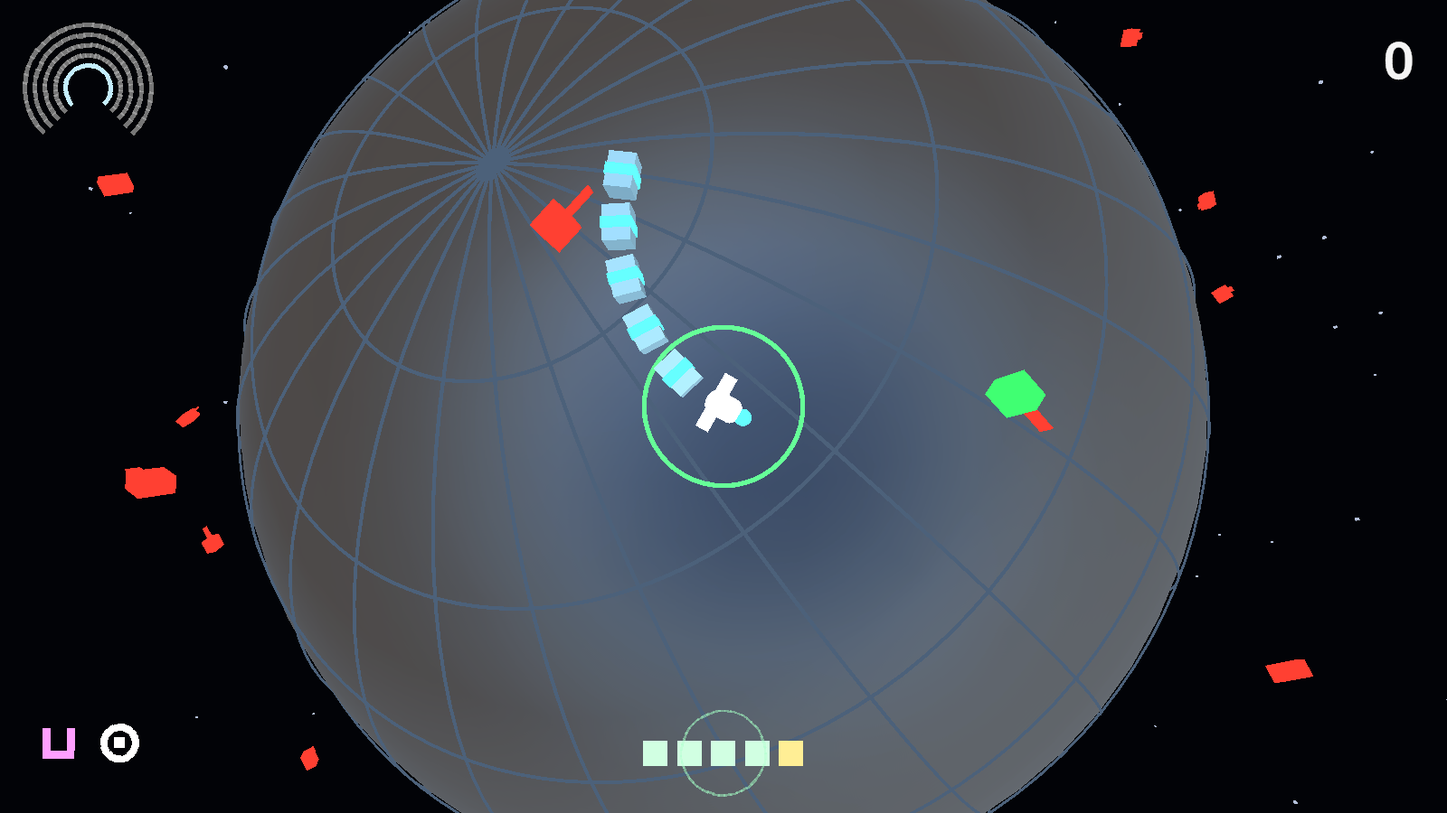
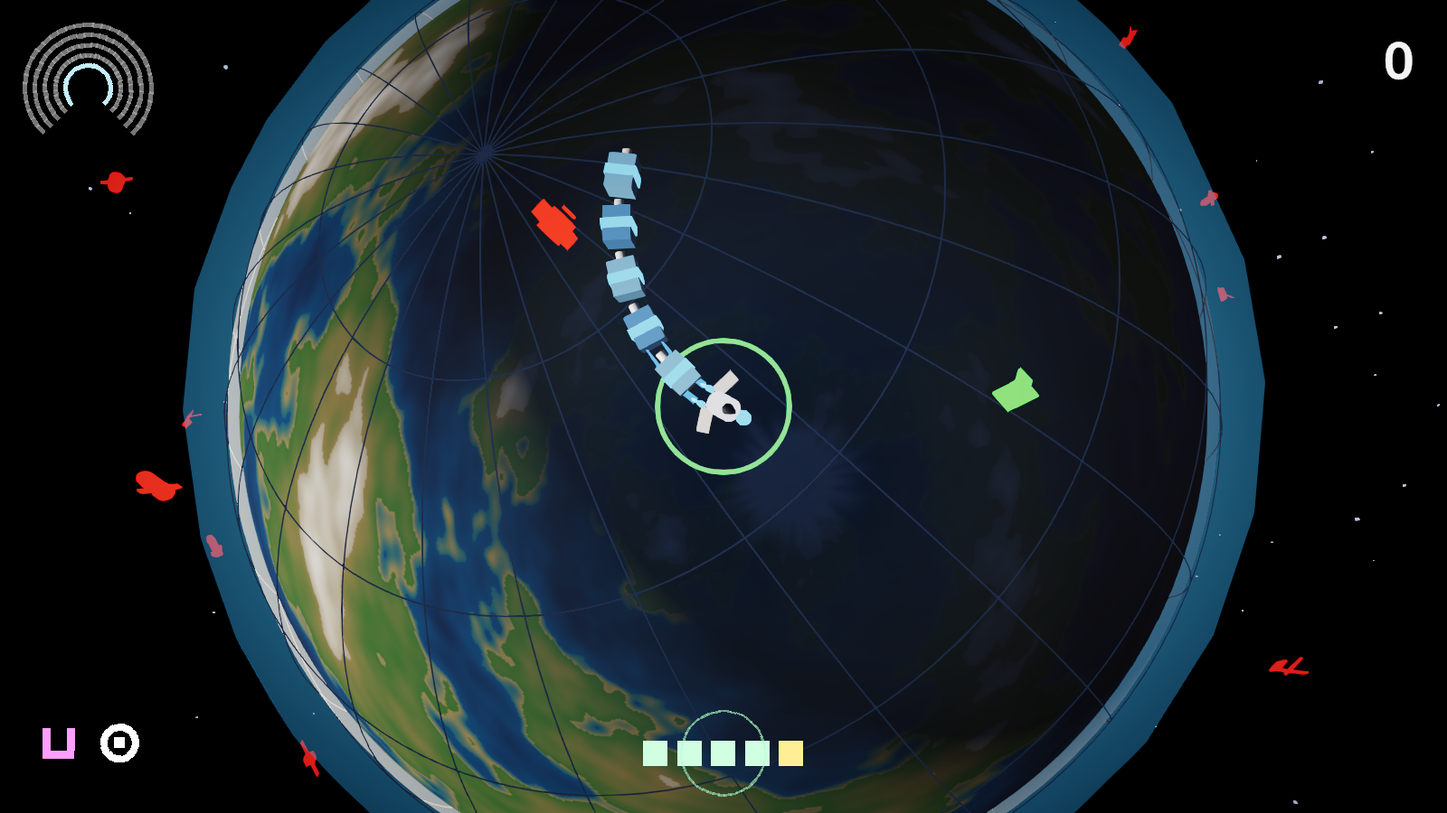
feat: Orbit Snake complete — synthesised music and effects, hit-stop, gamepad, best score, art polish; 24 checks, docs

diff --git a/My project/Assets/Scripts/Orbit/OrbitAudio.cs b/My project/Assets/Scripts/Orbit/OrbitAudio.cs
@@ -1,22 +1,94 @@
 using UnityEngine;
 
-// All audio is synthesised at start-up. Pings are one-shots; chimes step up with the shell.
+// All audio is synthesised at start-up: no clips on disk. Music is five generated loops, one per shell, in a shared
+// key that steps up a whole tone with every climb and gains a layer (pad, then arpeggio, then pulse and hats, then a
+// high arpeggio); a detuned drone fades in with the Kessler clock. Two sources cross-fade between shells. Sound effects
+// are short additive tones; consecutive catches step the catch note up the scale.
 public partial class OrbitSnake
 {
-    AudioSource audioSrc; AudioClip[] pings=new AudioClip[4]; AudioClip[] chimes=new AudioClip[5];
+    const int Rate=22050; const float Bpm=100f;
+    AudioSource sfxSrc, catchSrc, musicA, musicB, tensionSrc; bool musicOnA=true; float musicFade=1, catchStep, catchChainTimer; int catchChain;
+    AudioClip[] loops=new AudioClip[5]; AudioClip tension; AudioClip[] fx=new AudioClip[9]; int musicLevel=-1;
+    // A minor pentatonic in semitones from the root, and the progression i-VI-III-VII as chord roots (A F C G).
+    static readonly int[] Scale={0,3,5,7,10,12,15,17,19,22}; static readonly int[] ChordRoots={0,8,3,10};
+    static float Hz(int semi) => 220f*Mathf.Pow(2,semi/12f);
 
-    AudioClip Sound(string name,float length,float start,float end,float noise)
+    // ---- synthesis helpers ---------------------------------------------------------------------------------------
+    // Additive voice: sine plus a second and third harmonic, attack/decay envelope, written into the buffer at a sample offset.
+    static void Voice(float[] buf,int at,int len,float hz,float amp,float attack,float release,float h2=.25f,float h3=.08f,float detune=0)
     {
-        int count=(int)(22050*length); var samples=new float[count]; var random=new System.Random(44); float phase=0;
-        for(int i=0;i<count;i++){ float t=(float)i/count; phase+=Mathf.Lerp(start,end,t)*Mathf.PI*2/22050; samples[i]=(Mathf.Sin(phase)*(1-noise)+((float)random.NextDouble()*2-1)*noise)*Mathf.Pow(1-t,2)*.5f; }
-        var clip=AudioClip.Create(name,count,1,22050,false); clip.SetData(samples,0); owned.Add(clip); return clip;
+        int a=(int)(attack*Rate), r=(int)(release*Rate); float w=hz*Mathf.PI*2/Rate, w2=(hz+detune)*Mathf.PI*2/Rate;
+        for(int i=0;i<len&&at+i<buf.Length;i++)
+        {
+            float env=Mathf.Min(1,a>0?i/(float)a:1)*Mathf.Min(1,r>0?(len-i)/(float)r:1);
+            float s=Mathf.Sin(w*i)+h2*Mathf.Sin(2*w*i)+h3*Mathf.Sin(3*w*i); if(detune!=0)s=s*.5f+.5f*Mathf.Sin(w2*i);
+            buf[at+i]+=s*env*amp;
+        }
     }
+    static void Pluck(float[] buf,int at,float hz,float amp,float seconds){ int len=(int)(seconds*Rate); float w=hz*Mathf.PI*2/Rate; for(int i=0;i<len&&at+i<buf.Length;i++){ float t=i/(float)len; buf[at+i]+=(Mathf.Sin(w*i)*.8f+Mathf.Sin(2*w*i)*.2f*(1-t))*Mathf.Pow(1-t,3)*amp; } }
+    static void Tick(float[] buf,int at,float amp,float seconds,System.Random rnd){ int len=(int)(seconds*Rate); for(int i=0;i<len&&at+i<buf.Length;i++){ float t=i/(float)len; buf[at+i]+=((float)rnd.NextDouble()*2-1)*Mathf.Pow(1-t,4)*amp; } }
+    AudioClip Clip(string name,float[] buf){ float peak=0; foreach(var v in buf)peak=Mathf.Max(peak,Mathf.Abs(v)); if(peak>.98f)for(int i=0;i<buf.Length;i++)buf[i]*=.98f/peak; var c=AudioClip.Create(name,buf.Length,1,Rate,false); c.SetData(buf,0); owned.Add(c); return c; }
+
+    // One 8-bar loop for a shell. Every layer is quantised to the bar grid so the loop seam is silent.
+    AudioClip MusicLoop(int lvl)
+    {
+        float bpm=Bpm+lvl*6; int beat=(int)(60f/bpm*Rate), bar=beat*4, bars=8; var buf=new float[bar*bars]; int key=lvl*2; var rnd=new System.Random(11+lvl);
+        for(int b=0;b<bars;b++)
+        {
+            int root=key+ChordRoots[b%4]; int at=b*bar;
+            // Pad: root, third-ish (pentatonic), fifth, an octave up, slow attack, detuned for width.
+            foreach(int semi in new[]{0,3,7,12})Voice(buf,at,bar,Hz(root+semi),.07f,.6f,.5f,.2f,.05f,.9f);
+            // Bass: sub root on beat 1, and on beat 3 from shell 2.
+            Voice(buf,at,beat*2,Hz(root-12),.16f,.01f,.3f,.1f,0); if(lvl>=2)Voice(buf,at+beat*2,beat*2,Hz(root-12),.12f,.01f,.3f,.1f,0);
+            // Arpeggio: eighth notes walking the chord tones, from shell 1; sixteenths an octave higher from shell 3.
+            if(lvl>=1)for(int e=0;e<8;e++){ int semi=new[]{0,7,12,7,3,7,12,15}[e]; Pluck(buf,at+e*beat/2,Hz(root+semi+(lvl>=3?0:0)),.1f,.3f); }
+            if(lvl>=3)for(int e=0;e<16;e++){ int semi=Scale[(e*3+b)%Scale.Length]; Pluck(buf,at+e*beat/4,Hz(root+semi+12),.05f,.15f); }
+            // Pulse and hats from shell 2: a soft tick on every beat, noise on the off-beats.
+            if(lvl>=2)for(int q=0;q<4;q++){ Voice(buf,at+q*beat,beat/6,Hz(root-24),.12f,.002f,.05f,0,0); Tick(buf,at+q*beat+beat/2,.05f,.05f,rnd); }
+        }
+        return Clip("loop"+lvl,buf);
+    }
+    AudioClip TensionLoop(){ int len=Rate*6; var buf=new float[len]; Voice(buf,0,len,Hz(7),.12f,.5f,.5f,.3f,.15f,3.1f); Voice(buf,0,len,Hz(7-12),.08f,.5f,.5f,.2f,0,-1.7f); return Clip("tension",buf); }
+
+    AudioClip Fx(string name,float length,System.Action<float[]> fill){ var buf=new float[(int)(length*Rate)]; fill(buf); return Clip(name,buf); }
     void BuildAudio()
     {
-        audioSrc=gameObject.AddComponent<AudioSource>(); audioSrc.spatialBlend=0;
-        pings[0]=Sound("strike",.35f,160,50,.6f); pings[1]=Sound("catch",.18f,520,880,.05f); pings[2]=Sound("shot",.12f,900,400,.3f); pings[3]=Sound("win",1.2f,440,880,0);
-        for(int i=0;i<chimes.Length;i++)chimes[i]=Sound("chime"+i,.6f,330*(1+i*.25f),660*(1+i*.25f),0);
+        AudioSource Src(float vol,bool loop){ var s=gameObject.AddComponent<AudioSource>(); s.spatialBlend=0; s.volume=vol; s.loop=loop; s.playOnAwake=false; return s; }
+        sfxSrc=Src(.8f,false); catchSrc=Src(.7f,false); musicA=Src(0,true); musicB=Src(0,true); tensionSrc=Src(0,true);
+        var rnd=new System.Random(5);
+        fx[0]=Fx("strike",.4f,b=>{ Voice(b,0,b.Length,90,.5f,.002f,.35f,.3f,.1f); Tick(b,0,.5f,.25f,rnd); });                          // thud
+        fx[1]=Fx("catch",.22f,b=>{ Pluck(b,0,Hz(12),.6f,.22f); Pluck(b,(int)(.05f*Rate),Hz(19),.4f,.17f); });                        // pluck, stepped by pitch
+        fx[2]=Fx("shot",.15f,b=>{ Voice(b,0,b.Length,900,.4f,.002f,.12f,.2f,.1f); Tick(b,0,.3f,.06f,rnd); });                        // armour / whip
+        fx[3]=Fx("win",2.4f,b=>{ int[] seq={0,7,12,19,24,19,24,31}; for(int i=0;i<seq.Length;i++)Voice(b,(int)(i*.2f*Rate),(int)(.9f*Rate),Hz(seq[i]),.3f,.01f,.6f); });
+        fx[4]=Fx("sever",.5f,b=>{ Tick(b,0,.6f,.12f,rnd); Voice(b,0,b.Length,140,.35f,.002f,.45f,.4f,.2f); Voice(b,(int)(.08f*Rate),(int)(.3f*Rate),100,.3f,.002f,.3f); });
+        fx[5]=Fx("eject",1.6f,b=>{ for(int i=0;i<b.Length;i++){ float t=i/(float)b.Length; b[i]+=((float)rnd.NextDouble()*2-1)*Mathf.Sin(t*Mathf.PI)*.35f*(1-t*.5f); } Voice(b,0,b.Length,Hz(-12),.3f,.05f,1.2f,.3f,.1f); Voice(b,(int)(.3f*Rate),(int)(1.2f*Rate),Hz(0),.2f,.1f,.9f); });
+        fx[6]=Fx("skill",.9f,b=>{ int[] seq={0,4,7,12}; for(int i=0;i<4;i++)Voice(b,(int)(i*.09f*Rate),(int)(.6f*Rate),Hz(seq[i]+12),.28f,.01f,.4f); });
+        fx[7]=Fx("start",1.4f,b=>{ Voice(b,0,b.Length,Hz(0),.3f,.6f,.6f,.3f,.1f,1.5f); Voice(b,(int)(.4f*Rate),(int)(1f*Rate),Hz(7),.25f,.3f,.5f); Voice(b,(int)(.7f*Rate),(int)(.7f*Rate),Hz(12),.22f,.2f,.4f); });
+        fx[8]=Fx("death",1.8f,b=>{ for(int i=0;i<b.Length;i++){ float t=i/(float)b.Length; float hz=Mathf.Lerp(220,40,t*t); b[i]+=Mathf.Sin(i*hz*Mathf.PI*2/Rate)*(1-t)*.4f+((float)rnd.NextDouble()*2-1)*Mathf.Pow(1-t,3)*.3f; } });
+        for(int i=0;i<loops.Length;i++)loops[i]=MusicLoop(Mathf.Min(i,3)); tension=TensionLoop();
+        tensionSrc.clip=tension; tensionSrc.Play();
     }
-    public void Ping(int kind){ if(audioSrc&&Application.isPlaying)audioSrc.PlayOneShot(pings[Mathf.Clamp(kind,0,3)],.7f); }
-    public void Chime(int lvl){ if(audioSrc&&Application.isPlaying)audioSrc.PlayOneShot(chimes[Mathf.Clamp(lvl,0,chimes.Length-1)],.8f); }
+    // Ping kinds: 0 strike, 1 catch, 2 shot/armour, 3 win, 4 sever, 5 eject, 6 skill, 7 start, 8 death.
+    public void Ping(int kind)
+    {
+        if(!sfxSrc||!Application.isPlaying)return; kind=Mathf.Clamp(kind,0,fx.Length-1);
+        if(kind==1){ catchChain=catchChainTimer>0?Mathf.Min(catchChain+1,7):0; catchChainTimer=1.5f; catchSrc.pitch=Mathf.Pow(2,Scale[catchChain]/12f); catchSrc.PlayOneShot(fx[1],.7f); return; }
+        sfxSrc.PlayOneShot(fx[kind],kind==3||kind==7?.9f:.75f);
+    }
+    // The climb already plays the eject cue; Chime stays as a no-op so older call sites compile.
+    public void Chime(int lvl){ }
+    // Read-only views for the checks.
+    public AudioClip LoopClip(int i) => loops[Mathf.Clamp(i,0,loops.Length-1)]; public AudioClip TensionClip => tension; public int FxCount => fx.Length; public float CatchPitch => catchSrc?catchSrc.pitch:1;
+
+    // Per frame on the unscaled clock: pick the loop for the shell, cross-fade, follow pause and the Kessler drone.
+    void TickAudio(float dt)
+    {
+        if(!musicA||!Application.isPlaying)return;
+        int want=Mathf.Min(level,loops.Length-1);
+        if(want!=musicLevel){ musicLevel=want; var next=musicOnA?musicB:musicA; next.clip=loops[want]; next.volume=0; next.Play(); musicOnA=!musicOnA; musicFade=0; }
+        musicFade=Mathf.Min(1,musicFade+dt/1.5f); float master=(started?1:.35f)*(paused?.4f:1)*(ended&&!won?Mathf.Max(0,1-endTimer*.5f):1)*.5f;
+        var cur=musicOnA?musicA:musicB; var old=musicOnA?musicB:musicA; cur.volume=master*musicFade; old.volume=master*(1-musicFade); if(musicFade>=1&&old.isPlaying)old.Stop();
+        tensionSrc.volume=(started&&!ended?KesslerLoad:0)*.45f;
+        if(catchChainTimer>0)catchChainTimer-=dt;
+    }
 }

diff --git a/My project/Assets/Scripts/Orbit/OrbitSnake.cs b/My project/Assets/Scripts/Orbit/OrbitSnake.cs
@@ -49,6 +49,9 @@ public partial class OrbitSnake : MonoBehaviour
     public Transform world; public Camera cam;
     public string toast=""; public float toastTimer; public readonly List<string> feed=new();
     public float ejectPulse, strikePulse, catchPulse, armourPulse, pickPulse, endTimer; public int lastEjected;
+    // Best score across runs, and the hit-stop clock: Slow() dips Time.timeScale for a few real milliseconds on a contact.
+    public int best; public bool newBest; float slowUntil=-1, slowScale=1;
+    public void Slow(float scale,float seconds){ slowScale=scale; slowUntil=Time.unscaledTime+seconds; }
     System.Random rng;
     // Built player: -orbit-screenshot=<png> captures the full frame with the IMGUI HUD 3 s in (Camera.Render in the
     // Editor cannot see OnGUI), on a scripted weave with a starter train, then quits.
@@ -73,6 +76,7 @@ public partial class OrbitSnake : MonoBehaviour
         if(I&&I!=this){Destroy(gameObject);return;}
         I=this; Application.runInBackground=true;
         foreach(var arg in System.Environment.GetCommandLineArgs())if(arg.StartsWith("-orbit-screenshot="))screenshotPath=arg.Substring(18);
+        best=PlayerPrefs.GetInt("orbit.best",0);
         foreach(var c in FindObjectsByType<Camera>())c.enabled=false;
         foreach(var l in FindObjectsByType<Light>())l.enabled=false;
         foreach(var a in FindObjectsByType<AudioListener>())a.enabled=false;
@@ -84,7 +88,7 @@ public partial class OrbitSnake : MonoBehaviour
     // `wait` holds the world until the first key: the start screen is the frozen shell with the enter glyph over it.
     public void Restart(int seed,bool wait=false)
     {
-        rng=new System.Random(seed); started=!wait; shellTime=0; lastKessler=0; kesslerSpawned=0; kesslerPulse=0;
+        rng=new System.Random(seed); started=!wait; shellTime=0; lastKessler=0; kesslerSpawned=0; kesslerPulse=0; newBest=false; slowUntil=-1; Time.timeScale=1; catchChain=0; catchChainTimer=0;
         // Immediate, not deferred: the checks and the screenshot runner restart several times inside one frame.
         foreach(var j in junk)DestroyImmediate(j.gameObject); junk.Clear();
         foreach(var f in falling)DestroyImmediate(f.gameObject); falling.Clear();
@@ -163,7 +167,7 @@ public partial class OrbitSnake : MonoBehaviour
     }
     public void Take(SkillPod pod)
     {
-        skills[(int)pod.skill]=true; if(pod.skill==Skill.Armour)armour=1; pickPulse=.8f; score+=25; Chime(4);
+        skills[(int)pod.skill]=true; if(pod.skill==Skill.Armour)armour=1; pickPulse=.8f; score+=25; Ping(6); Slow(.2f,.2f);
         foreach(var p in skillPods)Kill(p.gameObject); skillPods.Clear(); Toast("SKILL "+pod.skill);
     }
 
@@ -210,7 +214,7 @@ public partial class OrbitSnake : MonoBehaviour
     void Catch(OrbitJunk j)
     {
         caught++; score+=10+5*level; catchPulse=.4f;
-        if(ship.segments.Count<MaxSegments)ship.AddSegment(); Kill(j.gameObject); Ping(1); ship.tailFlash=.3f; Burst(j.Position,new Color(.5f,1.4f,.7f),18);
+        if(ship.segments.Count<MaxSegments)ship.AddSegment(); Kill(j.gameObject); Ping(1); ship.tailFlash=.3f; Burst(j.Position,new Color(.5f,1.4f,.7f),18); Slow(.3f,.05f);
     }
 
     // A strike costs the two hindmost segments; armour eats one strike outright; with nothing left to shed the hull goes.
@@ -218,14 +222,15 @@ public partial class OrbitSnake : MonoBehaviour
     {
         Kill(j.gameObject); strikes++;
         if(armour>0){ armour=0; armourPulse=.7f; ship.grace=StrikeGrace; Ping(2); return; }
-        strikePulse=.6f; ship.shake=1; StrikeRing(); Burst(j.Position,new Color(1.5f,.35f,.2f),28);
+        strikePulse=.6f; ship.shake=1; StrikeRing(); Burst(j.Position,new Color(1.5f,.35f,.2f),28); Slow(.1f,.12f);
         if(ship.segments.Count==0){ End(false,"Struck by "+(j.wreck?"your own wreckage":"debris")+" with nothing left to shed"); return; }
         ship.Shed(2); ship.grace=StrikeGrace; Toast("STRIKE — two segments lost"); Ping(0);
     }
 
     public void End(bool win,string why)
     {
-        if(ended)return; ended=true; won=win; endReason=why; ship.dead=!win; endTimer=0; Toast(why); Ping(win?3:0);
+        if(ended)return; ended=true; won=win; endReason=why; ship.dead=!win; endTimer=0; Toast(why); Ping(win?3:8);
+        if(score>best){ best=score; newBest=true; PlayerPrefs.SetInt("orbit.best",best); PlayerPrefs.Save(); }
         if(!win){ if(Persist)SaveWreckage(); BreakUp(); }
         else if(Persist){ PlayerPrefs.DeleteKey(WreckKey); PlayerPrefs.Save(); }
     }
@@ -237,7 +242,7 @@ public partial class OrbitSnake : MonoBehaviour
         if(!EjectReady)return false;
         int n=ship.segments.Count; lastEjected=n;
         for(int i=0;i<n;i++){ var f=new GameObject("Falling segment").AddComponent<OrbitFalling>(); f.transform.SetParent(world); f.Init(ship.segments[i].position,i*.06f); BuildFallingArt(f); falling.Add(f); }
-        ship.Shed(n); score+=EjectValue(n); ejectPulse=1.2f;
+        ship.Shed(n); score+=EjectValue(n); ejectPulse=1.2f; Slow(.3f,.45f); Ping(5);
         level++; shellTime=0; lastKessler=0; kesslerSpawned=0; ship.Lift(ShellRadius(level)); if(junk.FindAll(x=>x.shell==level&&!x.shot&&!x.wreck).Count==0)SeedShell(level);
         Toast("EJECTED "+n+" — burning up below. Climbing to "+ShellNames[level]); Chime(level);
         if(level>=ShellAltitude.Length-1)End(true,"ESCAPE — you cleared the field. Score "+score); else OfferSkills();
@@ -247,32 +252,36 @@ public partial class OrbitSnake : MonoBehaviour
     float lastTapA=-1,lastTapD=-1;
     void Update()
     {
+        Time.timeScale=Time.unscaledTime<slowUntil&&!paused?slowScale:1; TickAudio(Time.unscaledDeltaTime);
         if(screenshotPath!=null)
         {
-            started=true;
+            started=true; slowUntil=-1;
             if(ship.segments.Count==0&&elapsed<.1f){ for(int i=0;i<5;i++)ship.AddSegment(); skills[(int)Skill.Magnet]=true; skills[(int)Skill.Armour]=true; armour=1; OfferSkills(); }
             ship.turn=Mathf.Sin(elapsed*1.5f);
             if(!shotTaken&&elapsed>3){ ScreenCapture.CaptureScreenshot(screenshotPath); shotTaken=true; Debug.Log("[SHOT] HUD capture -> "+screenshotPath); }
             if(shotTaken&&elapsed>4.5f)Application.Quit();
             return;
         }
-        var k=Keyboard.current; if(k==null)return;
-        if(!started){ if(k.anyKey.wasPressedThisFrame&&!k.escapeKey.wasPressedThisFrame)started=true; return; }
-        if(k.escapeKey.wasPressedThisFrame&&!ended)paused=!paused;
-        if(ended&&k.enterKey.wasPressedThisFrame)Restart((int)(Time.realtimeSinceStartup*1000)&0xffff,true);
+        var k=Keyboard.current; var gp=Gamepad.current; if(k==null&&gp==null)return;
+        bool Key(System.Func<Keyboard,bool> f) => k!=null&&f(k); bool Pad(System.Func<Gamepad,bool> f) => gp!=null&&f(gp);
+        if(!started){ if((Key(x=>x.anyKey.wasPressedThisFrame&&!x.escapeKey.wasPressedThisFrame))||Pad(x=>x.buttonSouth.wasPressedThisFrame||x.startButton.wasPressedThisFrame)){ started=true; Ping(7); } return; }
+        if((Key(x=>x.escapeKey.wasPressedThisFrame)||Pad(x=>x.startButton.wasPressedThisFrame))&&!ended)paused=!paused;
+        if(ended&&endTimer>.6f&&(Key(x=>x.enterKey.wasPressedThisFrame||x.spaceKey.wasPressedThisFrame)||Pad(x=>x.buttonSouth.wasPressedThisFrame||x.startButton.wasPressedThisFrame)))Restart((int)(Time.realtimeSinceStartup*1000)&0xffff,true);
         if(paused||ended){ship.turn=0;ship.brake=false;return;}
-        float turn=(k.dKey.isPressed||k.rightArrowKey.isPressed?1:0)-(k.aKey.isPressed||k.leftArrowKey.isPressed?1:0);
+        float turn=Key(x=>x.dKey.isPressed||x.rightArrowKey.isPressed)?1:0; turn-=Key(x=>x.aKey.isPressed||x.leftArrowKey.isPressed)?1:0;
+        if(gp!=null){ float sx=gp.leftStick.ReadValue().x; if(Mathf.Abs(sx)>.15f)turn+=sx; }
         var m=Mouse.current; if(m!=null&&Cursor.lockState==CursorLockMode.Locked)turn+=m.delta.ReadValue().x*.02f;
         ship.turn=Mathf.Clamp(turn,-1,1);
-        ship.brake=Has(Skill.Brake)&&(k.sKey.isPressed||k.downArrowKey.isPressed);
+        ship.brake=Has(Skill.Brake)&&(Key(x=>x.sKey.isPressed||x.downArrowKey.isPressed)||Pad(x=>x.leftTrigger.isPressed));
         if(Has(Skill.Phase))
         {
             float now=Time.unscaledTime;
-            if(k.aKey.wasPressedThisFrame||k.leftArrowKey.wasPressedThisFrame){ if(now-lastTapA<.3f)ship.Dash(-1); lastTapA=now; }
-            if(k.dKey.wasPressedThisFrame||k.rightArrowKey.wasPressedThisFrame){ if(now-lastTapD<.3f)ship.Dash(1); lastTapD=now; }
+            if(Key(x=>x.aKey.wasPressedThisFrame||x.leftArrowKey.wasPressedThisFrame)){ if(now-lastTapA<.3f)ship.Dash(-1); lastTapA=now; }
+            if(Key(x=>x.dKey.wasPressedThisFrame||x.rightArrowKey.wasPressedThisFrame)){ if(now-lastTapD<.3f)ship.Dash(1); lastTapD=now; }
+            if(Pad(x=>x.leftShoulder.wasPressedThisFrame))ship.Dash(-1); if(Pad(x=>x.rightShoulder.wasPressedThisFrame))ship.Dash(1);
         }
-        if(Has(Skill.Whip)&&k.qKey.wasPressedThisFrame)Whip();
-        if(k.spaceKey.wasPressedThisFrame)Eject();
+        if(Has(Skill.Whip)&&(Key(x=>x.qKey.wasPressedThisFrame)||Pad(x=>x.buttonWest.wasPressedThisFrame)))Whip();
+        if(Key(x=>x.spaceKey.wasPressedThisFrame)||Pad(x=>x.buttonSouth.wasPressedThisFrame))Eject();
     }
 
     // Q: the last segment leaves the head forward as a bullet on its own great circle.

diff --git a/My project/Assets/Scripts/Orbit/OrbitHUD.cs b/My project/Assets/Scripts/Orbit/OrbitHUD.cs
@@ -6,9 +6,9 @@ using UnityEngine;
 // one label, so a word cannot creep back in without a check failing.
 public partial class OrbitSnake
 {
-    const float Width=1280,Height=720; GUIStyle digits;
+    const float Width=1280,Height=720; GUIStyle digits,small;
     static readonly Color Ink=new Color(1,1,1,.9f), Dim=new Color(1,1,1,.18f), Lit=new Color(.55f,.85f,1), Ready=new Color(.4f,1,.6f);
-    void Styles(){ if(digits!=null)return; digits=new GUIStyle(GUI.skin.label){fontSize=44,fontStyle=FontStyle.Bold,alignment=TextAnchor.UpperRight}; digits.normal.textColor=Ink; }
+    void Styles(){ if(digits!=null)return; digits=new GUIStyle(GUI.skin.label){fontSize=44,fontStyle=FontStyle.Bold,alignment=TextAnchor.UpperRight}; digits.normal.textColor=Ink; small=new GUIStyle(digits){fontSize=20}; small.normal.textColor=new Color(1,1,1,.45f); }
     static void Box(Rect r,Color c){ var old=GUI.color; GUI.color=c; GUI.DrawTexture(r,Texture2D.whiteTexture); GUI.color=old; }
     // A rotated bar: centre, length along the angle, thickness across it.
     static void Bar(Vector2 c,float len,float thick,float deg,Color col){ var old=GUI.matrix; GUI.matrix=old*Matrix4x4.TRS(new Vector3(c.x,c.y,0),Quaternion.Euler(0,0,deg),Vector3.one); Box(new Rect(-len*.5f,-thick*.5f,len,thick),col); GUI.matrix=old; }
@@ -16,7 +16,7 @@ public partial class OrbitSnake
     static void Arc(Vector2 c,float r,float start,float sweep,float thick,Color col){ int n=Mathf.Max(6,(int)(sweep/8)); float step=sweep/n; for(int i=0;i<n;i++){ float a=(start+(i+.5f)*step)*Mathf.Deg2Rad; Bar(c+new Vector2(Mathf.Cos(a),Mathf.Sin(a))*r,r*step*Mathf.Deg2Rad+1.5f,thick,start+(i+.5f)*step+90,col); } }
     static float Pulse(float hz) => .5f+.5f*Mathf.Sin(Time.unscaledTime*hz*Mathf.PI*2);
     // The one and only label in the HUD: an integer. OrbitVerification counts GUI.Label calls in this file and expects one.
-    void Digits(Rect r,int v){ GUI.Label(r,v.ToString(),digits); }
+    void Digits(Rect r,int v,GUIStyle style=null){ var keep=digits; if(style!=null)digits=style; GUI.Label(r,v.ToString(),digits); digits=keep; }
 
     // The skill glyphs, same shapes as the pods, drawn in a square.
     public static void Glyph2D(Skill s,Rect r,Color col)
@@ -51,6 +51,8 @@ public partial class OrbitSnake
         for(int i=0;i<ShellAltitude.Length;i++){ bool lit=i<=level; Color c=lit?(i==level?(ejectPulse>0?Color.Lerp(Lit,Color.white,Pulse(3)):load):Lit):Dim; Arc(sc,20+i*9,135,270,4,c); }
         // Score, digits only, top right.
         Digits(new Rect(Width-330,26,300,60),score);
+        // Best score, small and dim under the score; gold and breathing when this run beat it.
+        if(best>0){ var bs=new GUIStyle(small); if(newBest)bs.normal.textColor=Color.Lerp(new Color(1,.85f,.3f),Color.white,Pulse(1.2f)); Digits(new Rect(Width-330,74,300,30),best,bs); }
         // Train pips against the quota, bottom centre. Filled pips are the segments held; past the quota they turn gold.
         int q=Quota; int n=ship.segments.Count; int slots=Mathf.Max(q,n); float pw=22,gap=8; float x0=Width*.5f-(slots*pw+(slots-1)*gap)*.5f;
         for(int i=0;i<slots;i++){ bool filled=i<n; bool extra=i>=q; Color c=!filled?Dim:extra?new Color(1,.85f,.3f):(EjectReady?Color.Lerp(Ready,Color.white,Pulse(1.5f)*.5f):Lit); Box(new Rect(x0+i*(pw+gap),Height-64,pw,pw),c); if(!filled)Box(new Rect(x0+i*(pw+gap)+3,Height-61,pw-6,pw-6),new Color(0,0,0,.35f)); }
@@ -67,6 +69,7 @@ public partial class OrbitSnake
             if(won)for(int i=0;i<ShellAltitude.Length;i++)Arc(new Vector2(Width*.5f,Height*.5f-30),40+i*14,0,360,5,Color.Lerp(Lit,Color.white,Pulse(1)));
             else Arc(new Vector2(Width*.5f,Height*.5f-30),60,0,360,6,new Color(1,.3f,.2f,t));
             Digits(new Rect(Width*.5f-150,Height*.5f-56,300,60),score);
+            if(best>0){ var bs=new GUIStyle(small); bs.alignment=TextAnchor.UpperCenter; if(newBest)bs.normal.textColor=Color.Lerp(new Color(1,.85f,.3f),Color.white,Pulse(1.2f)); Digits(new Rect(Width*.5f-150,Height*.5f+4,300,30),best,bs); }
             EnterGlyph(new Vector2(Width*.5f,Height*.5f+90),60,new Color(1,1,1,.4f+.4f*Pulse(1)*t));
         }
     }

diff --git a/My project/Assets/Scripts/Orbit/OrbitArt.cs b/My project/Assets/Scripts/Orbit/OrbitArt.cs
@@ -37,12 +37,10 @@ public partial class OrbitSnake
             for(int k=0;k<128;k++){ float a=k*Mathf.PI*2/128; ring.SetPosition(k,q*new Vector3(Mathf.Cos(a)*r,y,Mathf.Sin(a)*r)); } }
         // Atmosphere limb: RIFT's shader, re-centred on the origin. Cull Front, so it is seen from inside as a halo on the disc.
         var atmoShader=Shader.Find("Rift/Atmosphere");
-        if(atmoShader){ var atmo=new Material(atmoShader); owned.Add(atmo); atmo.SetVector("_PlanetCenter",Vector3.zero); atmo.SetFloat("_Radius",PlanetRadius); Shape("Atmosphere",world,PrimitiveType.Sphere,Vector3.zero,Vector3.one*(PlanetRadius+25)*2,atmo); }
-        // Star field with a nebula wash: 700 additive specks plus four huge faint blobs far behind everything.
+        if(atmoShader){ var atmo=new Material(atmoShader); owned.Add(atmo); atmo.SetVector("_PlanetCenter",Vector3.zero); atmo.SetFloat("_Radius",PlanetRadius); Shape("Atmosphere",world,PrimitiveType.Sphere,Vector3.zero,Vector3.one*(PlanetRadius+12)*2,atmo); }
+        // Star field: 700 additive specks on a far sphere. (Nebula blobs were tried and read as dark discs from this camera.)
         var stars=new GameObject("Stars"); stars.transform.SetParent(world,false); var sr=new System.Random(3);
         for(int i=0;i<700;i++){ float z=(float)sr.NextDouble()*2-1,a=(float)sr.NextDouble()*Mathf.PI*2,r=Mathf.Sqrt(1-z*z); Shape("Star",stars.transform,PrimitiveType.Cube,new Vector3(r*Mathf.Cos(a),z,r*Mathf.Sin(a))*1500,Vector3.one*(1.5f+(float)sr.NextDouble()*3.5f),starMat); }
-        Color[] neb={new Color(.35f,.15f,.5f),new Color(.1f,.3f,.55f),new Color(.5f,.2f,.3f),new Color(.15f,.4f,.45f)};
-        for(int i=0;i<4;i++){ float z=(float)sr.NextDouble()*2-1,a=(float)sr.NextDouble()*Mathf.PI*2,r=Mathf.Sqrt(1-z*z); Shape("Nebula",stars.transform,PrimitiveType.Sphere,new Vector3(r*Mathf.Cos(a),z,r*Mathf.Sin(a))*1400,Vector3.one*(500+(float)sr.NextDouble()*400),Additive(neb[i],.16f)); }
         var sun=new GameObject("Sun").AddComponent<Light>(); sun.transform.SetParent(world); sun.type=LightType.Directional; sun.intensity=2.6f; sun.color=new Color(1,.95f,.86f); sun.transform.rotation=Quaternion.LookRotation(-sunDir);
         RenderSettings.ambientMode=AmbientMode.Trilight; RenderSettings.ambientSkyColor=new Color(.3f,.36f,.5f); RenderSettings.ambientEquatorColor=new Color(.2f,.24f,.34f); RenderSettings.ambientGroundColor=new Color(.12f,.14f,.2f); RenderSettings.skybox=null; RenderSettings.fog=false;
         // Post-processing: a runtime global volume with bloom for the HDR emissives and a soft vignette.
@@ -141,7 +139,7 @@ public partial class OrbitSnake
     void BuildCamera()
     {
         cam=new GameObject("Orbit camera").AddComponent<Camera>(); cam.transform.SetParent(world); cam.tag="MainCamera";
-        cam.clearFlags=CameraClearFlags.SolidColor; cam.backgroundColor=new Color(.008f,.01f,.025f); cam.fieldOfView=62; cam.nearClipPlane=1; cam.farClipPlane=2600; cam.allowHDR=true;
+        cam.clearFlags=CameraClearFlags.SolidColor; cam.backgroundColor=new Color(.008f,.01f,.025f); cam.fieldOfView=62; cam.nearClipPlane=1; cam.farClipPlane=3200; cam.allowHDR=true;
         camData=cam.GetUniversalAdditionalCameraData(); camData.renderPostProcessing=true; camData.antialiasing=AntialiasingMode.SubpixelMorphologicalAntiAliasing;
         cam.gameObject.AddComponent<AudioListener>();
     }
@@ -151,7 +149,8 @@ public partial class OrbitSnake
     // not the world. Height grows with the shell so the planet visibly shrinks as you climb.
     const float CamHeight=85f;
     float CamHeightNow => CamHeight+level*10;
-    public void SnapCamera(){ camUp=ship.tangent; ApplyCamera(); }
+    // Snap is only used after a restart or a staged jump, so it also clears the exhaust trails a teleport would smear.
+    public void SnapCamera(){ camUp=ship.tangent; ApplyCamera(); foreach(var t in ship.GetComponentsInChildren<TrailRenderer>())t.Clear(); }
     void UpdateCamera(float dt){ ApplyCamera(); TintJunk(); }
     void ApplyCamera()
     {

diff --git a/My project/Assets/Editor/OrbitVerification.cs b/My project/Assets/Editor/OrbitVerification.cs
@@ -143,7 +143,20 @@ public static class OrbitVerification
             // 22. Start gate: a waiting restart holds the world until started.
             g.Restart(9,true); Check(!g.started,"a waiting restart is not started"); float e0=g.elapsed; g.Advance(Dt); Check(Mathf.Approximately(g.elapsed,e0),"the world holds before the first key"); g.started=true; g.Advance(Dt); Check(g.elapsed>e0,"the world runs once started");
 
-            return "ORBIT VERIFICATION PASS: shell walk, great/small circles, junk rails, catch, strike, zero-segment death, train spacing, self-bite, eject/lift/seed, pause, determinism, skill offer and pick, magnet, armour, whip, brake, phase, compound, wordless HUD, Kessler clock, wreckage persistence, start gate";
+            // 23. Audio is synthesised: five shell loops of exactly eight bars at their tempo, a tension loop, nine effects, and
+            // consecutive catches step the catch note up the pentatonic scale.
+            for(int i=0;i<5;i++){ var lp=g.LoopClip(i); float bpm=100+Mathf.Min(i,3)*6; int expect=(int)(60f/bpm*22050)*4*8; Check(lp&&lp.samples==expect,"loop "+i+" is eight bars at "+bpm+" bpm ("+(lp?lp.samples:0)+" vs "+expect+")"); }
+            Check(g.TensionClip&&g.FxCount==9,"tension loop and nine effects exist");
+            g.Restart(1); g.Ping(1); float p1=g.CatchPitch; g.Ping(1); float p2=g.CatchPitch; g.Ping(1); float p3=g.CatchPitch;
+            Check(Mathf.Approximately(p1,1)&&Mathf.Abs(p2-Mathf.Pow(2,3/12f))<1e-3f&&Mathf.Abs(p3-Mathf.Pow(2,5/12f))<1e-3f,"catch chain steps the pitch up the scale ("+p1.ToString("F3")+", "+p2.ToString("F3")+", "+p3.ToString("F3")+")");
+
+            // 24. Best score: a run that beats the stored best records it and flags the HUD; a lower one does not.
+            int savedBest=PlayerPrefs.GetInt("orbit.best",0); PlayerPrefs.SetInt("orbit.best",50); g.best=50;
+            g.Restart(1); g.score=120; g.End(false,"test"); Check(g.best==120&&g.newBest&&PlayerPrefs.GetInt("orbit.best")==120,"a higher score becomes the best");
+            g.Restart(1); g.score=30; g.End(false,"test"); Check(g.best==120&&!g.newBest,"a lower score leaves the best alone");
+            PlayerPrefs.SetInt("orbit.best",savedBest); g.best=savedBest;
+
+            return "ORBIT VERIFICATION PASS: shell walk, great/small circles, junk rails, catch, strike, zero-segment death, train spacing, self-bite, eject/lift/seed, pause, determinism, skill offer and pick, magnet, armour, whip, brake, phase, compound, wordless HUD, Kessler clock, wreckage persistence, start gate, synthesised music and catch chain, best score";
         }
         finally { OrbitSnake.Persist=false; g.Restart(7); OrbitSnake.Persist=wasPersist; if(string.IsNullOrEmpty(savedWreck))PlayerPrefs.DeleteKey(OrbitSnake.WreckKey); else PlayerPrefs.SetString(OrbitSnake.WreckKey,savedWreck); g.paused=wasPaused; }
     }

diff --git a/My project/Assets/Scripts/Orbit/OrbitBodies.cs b/My project/Assets/Scripts/Orbit/OrbitBodies.cs
@@ -70,7 +70,7 @@ public class OrbitShip : MonoBehaviour
             {
                 int lost=segments.Count-i;
                 for(int j=segments.Count-1;j>=i;j--){ var n=TrailNormal((j+1)*OrbitSnake.SegmentSpacing,out var d); OrbitSnake.I.SpawnJunkAt(OrbitSnake.I.level,n,d,OrbitSnake.Speed*.7f,true); RemoveLast(); }
-                OrbitSnake.I.Toast("SEVERED — "+lost+" segments cut loose on this shell"); OrbitSnake.I.Ping(0); shake=1; return;
+                OrbitSnake.I.Toast("SEVERED — "+lost+" segments cut loose on this shell"); OrbitSnake.I.Ping(4); OrbitSnake.I.Slow(.15f,.15f); shake=1; return;
             }
     }
 }

diff --git a/CHANGELOG.md b/CHANGELOG.md
@@ -9,6 +9,13 @@
 ### Added
 
 - **ORBIT SNAKE greybox**（分支 `feat/orbital-snake`，设计见 `docs/ORBIT-SNAKE-DESIGN.md`）：与 RIFT 并存的第二个游戏，独立场景 `Assets/Scenes/OrbitSnake.unity`（由 `OrbitSceneBuilder.Ensure()` 生成）、独立代码 `Assets/Scripts/Orbit/`（`OrbitSnake` 管理器 + `OrbitBodies` 实体 + `OrbitArt` + `OrbitHUD`，约 330 行）。没有轨道力学：蛇的全部状态是一个单位法线（在哪）和一个单位切向（朝哪），前进是绕 `normal×tangent` 旋转两者的精确大圆步进，A/D 以 150°/s 绕法线转切向，速度恒定 60 u/s，半径钉死在当前层（`ShellAltitude={40,72,108,150,200}`，星球半径 300）。垃圾在各自层的大圆上以固定角速率跑，一半逆向；接触时蛇的航向与垃圾运动方向夹角 <45° 是**吃**（挂到尾巴上），否则是**撞**（掉最后两节，1.5 s 无敌），没节可掉时撞就是死。头碰到第 4 节以后的自己从那节**切断**，断掉的节带着当时的行进方向变成本层的残骸垃圾（金色），下一圈回来。Space 在节数达到本层配额（4/6/8/10）时把整条尾巴抛向星球烧掉（`OrbitFalling` 余烬），得分 `n²·5+50·(level+1)`，飞船升一层并给新层播种垃圾；第五层即通关。RIFT 的 `Boot()` 加了场景名闸门，不再往别的场景里生成竞技场。
+- **ORBIT SNAKE 美术**（`OrbitArt.cs` 重写，全部运行时生成）：128×64 光照球体 + 1024×512 程序化贴图（两倍频噪声分海洋/大陆架/陆地/高地/雪，纬度冰盖）、慢速漂移的半透明云层球、每 15° 一条的暗色经纬网格、RIFT 的 `Rift/Atmosphere` 大气 shader 重新对准原点做出圆盘边缘的蓝色光晕、700 颗加色星点 + 四团星云、方向光给出晨昏线、三重光环境光；运行时 `Volume`（Bloom 阈值 1 强度 .7、Vignette .28、ACES tonemapping），相机开启后处理与 SMAA。三种垃圾剪影按相位哈希选择（带双板与天线盘的卫星、带喷口的火箭级、翻滚的板材簇），所有渲染器一起随吃/撞规则染色；飞船改为胶囊机身 + 座舱 + 发光机鼻 + 后掠双翼 + 双引擎辉光 + 0.22 s 加色尾焰；尾节交替两种蓝并带发光带与耦合器；共享粒子系统在吃到（绿）与撞击（红）时喷射拉伸火花；抛掉的余烬拖橙色尾迹。相机高度随层数增加 10/层，星球在你升层时肉眼可见地变小。
+- **ORBIT SNAKE 音乐与音效**（`OrbitAudio.cs`，启动时全部合成，零音频文件）：五层各一段 8 小节循环，A 小调五声音阶，和弦进行 i–VI–III–VII，每升一层整体升一个全音、加 6 BPM、加一层——底层是 pad + 低音，第二层加八分音符琶音，第三层加节拍脉冲与噪声 hats，第四层加高八度十六分音符琶音；两个 AudioSource 在升层时 1.5 s 交叉淡入淡出；一段失谐的五度 drone 随 Kessler 钟的负载淡入；暂停时音乐压到 40%，死亡后淡出，开始画面 35%。九个音效：撞击闷响、吃到的拨弦（1.5 s 内连续吃到按五声音阶逐级升调，最多七级）、装甲/甩尾的短促击打、通关琶音、断尾裂响、抛尾的噪声扫频 + 低音、技能拾取的大三和弦、开始的涌起和弦、死亡的下滑音。
+- **ORBIT SNAKE 手感与结构**：hit-stop（吃到 .05 s ×.3、撞击 .12 s ×.1、断尾 .15 s ×.15、抛尾 .45 s ×.3、拾技能 .2 s ×.2，走 `Time.timeScale`，暂停时不生效）；手柄支持（左摇杆转向、A 抛尾/开始/重开、X 甩尾、LT 刹车、LB/RB 相位闪避、Start 暂停）；最高分存 `PlayerPrefs orbit.best`，分数下方以小号暗色数字显示，本局刷新纪录时变金并呼吸；结算画面 .6 s 后才接受重开键，避免误按。
+- **ORBIT SNAKE Kessler 钟**：在一层停留超过 20 s 后每 6 s 多一块垃圾（随机大圆，交替顺逆向），上限是播种数的两倍，升层归零。HUD 左上当前层的弧从蓝渐变到橙表示负载，每加一块闪白一次。
+- **ORBIT SNAKE 残骸跨局**：死亡时把当前层的残骸垃圾 + 死时的整条尾巴（最多 30 条）序列化进 `PlayerPrefs orbit.wreck`（`层|法线,方向;…`，不变文化），每次开局读回并生成为该层的金色残骸垃圾；通关清空。
+- **ORBIT SNAKE 开始画面**：开局世界冻结，暗色遮罩 + 呼吸的圆环 + 回车图形，任意键开始（Esc 除外），无文字。
+- `OrbitVerification` 新增五项（共 24）：Kessler 前 20 s 不生成、之后 40 s 内生成 6–7 块且全在当前层、到上限停止、升层归零；死亡写入残骸并在下一局读回三块、通关清空；等待中的开局阻断 `Advance`；五段循环各 8 小节样本数精确、九个音效存在、连续吃到的音高按 1 → 2^(3/12) → 2^(5/12) 递增；最高分更新与不更新两条。
 - **ORBIT SNAKE 无文字 HUD**（用户要求"UI 不能用任何文字"）：`OrbitHUD.cs` 重写，全屏只剩一个整数 Label（分数），其余全是形状——左上五道同心弧表示第几层（点亮到当前层，刚升层的那道呼吸一秒）、底部中央一排格子表示尾巴对配额（吃一节填一格，超出配额的格子变金，达标后整排呼吸并在格子外画一圈脉冲弧）、左下技能图形（与世界里的图标同一套形状，装甲用掉后变暗）、撞击红闪/吃到绿闪/装甲白闪/拾技能淡蓝洗、暂停两根竖条、结算画面只有一圈弧 + 分数 + 一个回车形状的图形；胜利是相机三秒内升高四倍让星球缩成一个点。世界里的反馈：Space 可用时蛇头周围一圈呼吸的绿环、撞击时一圈扩散消散的红环、吃到时最新一节的发光带闪白、装甲持有时机身变亮、死亡时机身炸成八块余烬落向星球。`OrbitVerification` 第 19 项读 `OrbitHUD.cs` 源码断言恰好一个 `GUI.Label(` 且它只画 `v.ToString()`——文字回不来。
 - **ORBIT SNAKE Roguelite 技能**：每升一层，新壳上前方 70 单位处漂三个未拥有的技能图标（间隔 28 单位），飞穿哪个拿哪个，另外两个消失；不出菜单、不写字。六个技能：**磁铁**（吃的角度 45°→70°）、**装甲**（吃掉一次撞击不掉节，用完即碎）、**甩尾**（Q 把最后一节向前发射成子弹，清掉碰到的第一块垃圾，8 s 后失效）、**刹车**（按住 S 速度 ×.55，转弯圈随之收紧）、**相位**（双击 A/D 向侧面跳 14 单位、.25 s 内无敌）、**复利**（抛尾得分 ×1.5）。图标由方块拼成（U 形磁铁、圆盘装甲、箭头、双竖条、错位双方块、递增三柱），HUD 里用同一套 2D 形状。`OrbitVerification` 新增七项：升层给出三个互异且落在新壳上的技能、飞穿拾取并清空、60° 接触无磁铁是撞 / 有磁铁是吃、装甲吸收一次撞击且归零、甩尾消耗一节并清掉前方垃圾、刹车实测 33 u/s、相位实测侧移 14 单位穿过垃圾无撞击、复利 ×1.5。校验总数 19。截图 runner 加第 4 帧 `04-skills`。
 - **ORBIT SNAKE 俯视相机**（用户反馈追尾视角"太晕"，尤其是 flicking）：相机刚性锁在蛇头正上方 85 单位、沿法线向下看，无位置插值、无撞击震屏，飞船钉在屏幕中心；屏幕上方向是沿路径**平行传输**的切向量（每帧只重新投影到新切平面，从不绕法线转），所以转向时是飞船在屏幕上转、世界不转。经纬网格加密到每 15°，实体放大 1.5× 适配俯视距离。

diff --git a/PLAYTEST.md b/PLAYTEST.md
@@ -3,7 +3,7 @@
 Open `My project` in Unity and play `Assets/Scenes/SampleScene.unity`.
 The arena builds automatically; no downloaded assets or start menu are required.
 
-> **Second game in this project — ORBIT SNAKE.** Play `Assets/Scenes/OrbitSnake.unity` (or `open Builds/ORBIT.app`). A/D or ←/→ turn, Space ejects the train, Esc pauses, Enter restarts. Top-down over a small planet; you walk a shell at constant speed and junk rides great circles of the same shell. Come up **behind** a piece so your heading matches its motion (it turns green when it will) and it latches on as a segment. Meet it any other way (red) and you lose the two hindmost segments; with none left, you're done. Touch your own tail past the neck and it severs — the loose segments become wreckage on this shell and come round again. When the pips at the bottom fill (quota 4 → 6 → 8 → 10) a green ring breathes around the ship: Space throws the train into the atmosphere for `n²·5 + 50·level` points and lifts you one shell into a denser field. Each climb floats three skill icons ahead of you; fly through one to take it (magnet: wider catch cone · armour: one free strike · whip: Q fires the last segment · brake: hold S · phase: double-tap A/D to hop sideways · compound: ejections pay 1.5×). Five shells; the fifth is escape. **The HUD has no words**: five arcs for the shell, pips for the train, glyphs for skills, digits for the score. Design notes in `docs/ORBIT-SNAKE-DESIGN.md`; headless checks via `-executeMethod OrbitHeadlessRunner.Run` (19), screenshots via `OrbitScreenshotRunner.Run`, build via `RiftBuild.OrbitMacOS`.
+> **Second game in this project — ORBIT SNAKE.** Play `Assets/Scenes/OrbitSnake.unity` (or `open Builds/ORBIT.app`). A/D or ←/→ turn, Space ejects the train, Esc pauses, Enter restarts. Top-down over a small planet; you walk a shell at constant speed and junk rides great circles of the same shell. Come up **behind** a piece so your heading matches its motion (it turns green when it will) and it latches on as a segment. Meet it any other way (red) and you lose the two hindmost segments; with none left, you're done. Touch your own tail past the neck and it severs — the loose segments become wreckage on this shell and come round again. When the pips at the bottom fill (quota 4 → 6 → 8 → 10) a green ring breathes around the ship: Space throws the train into the atmosphere for `n²·5 + 50·level` points and lifts you one shell into a denser field. Each climb floats three skill icons ahead of you; fly through one to take it (magnet: wider catch cone · armour: one free strike · whip: Q fires the last segment · brake: hold S · phase: double-tap A/D to hop sideways · compound: ejections pay 1.5×). Five shells; the fifth is escape. Stay too long on one shell and the Kessler clock adds junk every six seconds (the current shell's arc goes orange); die and your train stays on that shell as gold wreckage for the next run. **The HUD has no words**: five arcs for the shell, pips for the train, glyphs for skills, digits for the score and, smaller, your best. Any key starts; Esc pauses; Enter or Space restarts. Gamepad: left stick turns, A ejects, X whips, LT brakes, LB/RB phase-hop, Start pauses. Music and every sound are synthesised at start-up: the loop gains a layer and steps up a whole tone with each shell, and consecutive catches climb the scale. Design notes in `docs/ORBIT-SNAKE-DESIGN.md`; headless checks via `-executeMethod OrbitHeadlessRunner.Run` (24), screenshots via `OrbitScreenshotRunner.Run`, build via `RiftBuild.OrbitMacOS`.
 
 ## The loop
 

diff --git a/README.md b/README.md
@@ -57,15 +57,15 @@ The same suites are also Editor menu items that run in Play Mode:
 
 Both throw on failure and log a `PASS` line on success.
 
-## ORBIT SNAKE (greybox, second game)
+## ORBIT SNAKE (second game)
 
 ![Orbit Snake: wordless HUD — arcs for the shell, pips for the train, glyphs for skills](./docs/orbit-hud.png)
 ![Orbit Snake: three skill icons on offer after a climb](./docs/orbit-skills.png)
 
-A snake on the shell of a junk-choked planet, in the same project and the same zero-asset style. Top-down, constant speed, one control (turn), one button (Space), and a HUD with no words in it. Junk rides great circles; come up behind it with a matching heading and it becomes a segment, hit it any other way and you shed two. Bite your own tail and the loose segments become wreckage on the shell. At the quota, Space throws the whole train into the atmosphere and lifts you into the next, denser shell, where three skill icons float ahead of you: fly through one to keep it for the run.
+A snake on the shell of a junk-choked planet, in the same project and the same zero-asset style: the planet, clouds, atmosphere, stars, ships, junk, particles, music and every sound effect are generated at start-up. Top-down, constant speed, one control (turn), one button (Space), and a HUD with no words in it. Junk rides great circles; come up behind it with a matching heading and it becomes a segment, hit it any other way and you shed two. Bite your own tail and the loose segments become wreckage on the shell. At the quota, Space throws the whole train into the atmosphere and lifts you into the next, denser shell, where three skill icons float ahead of you: fly through one to keep it for the run. Linger and the Kessler clock fills the shell; die and your wreck waits there next time. Keyboard or gamepad.
 
 ```bash
-"$UNITY" -batchmode -nographics -projectPath "$PROJECT" -executeMethod OrbitHeadlessRunner.Run -logFile /tmp/orbit-verify.log   # 19 rule checks
+"$UNITY" -batchmode -nographics -projectPath "$PROJECT" -executeMethod OrbitHeadlessRunner.Run -logFile /tmp/orbit-verify.log   # 24 rule checks
 "$UNITY" -batchmode -nographics -quit -projectPath "$PROJECT" -executeMethod RiftBuild.OrbitMacOS -logFile /tmp/orbit-build.log  # Builds/ORBIT.app
 ```
 

diff --git a/docs/ORBIT-SNAKE-DESIGN.md b/docs/ORBIT-SNAKE-DESIGN.md
@@ -2,7 +2,7 @@
 
 ## Status
 
-Supersedes the free-flight Kepler draft committed as `9304457` (`OrbitSnake.cs` / `OrbitBodies.cs`). That code does not compile — it references art/audio partial members that were never written — and is being rewritten from scratch against this document. Nothing below reuses the old orbital-mechanics math; it reuses the *shape* of a few techniques (trail-buffer segment placement, dt-parameterized `Step()` for deterministic verification) that worked regardless of what state they were driving.
+**Implemented (2026-09-21).** Everything below the pitch is in `My project/Assets/Scripts/Orbit/` and verified by the 24 checks in `Assets/Editor/OrbitVerification.cs` (`-executeMethod OrbitHeadlessRunner.Run`). Shipped beyond this document: six fly-through skills (magnet, armour, whip, brake, phase, compound), a wordless HUD with a source-level check that it draws one integer label, a Kessler clock (junk every 6 s after 20 s on a shell, capped at 2x), wreckage persisting across runs in PlayerPrefs, a start gate, hit-stop, gamepad input, a best score, and a full art and audio pass with every asset (planet, clouds, atmosphere, stars, ships, junk, particles, five music loops, nine effects) synthesised at start-up. Not built: a WebGL share build; rival snakes. The old Kepler draft (`9304457`) is gone.
 
 ## Pitch
 
